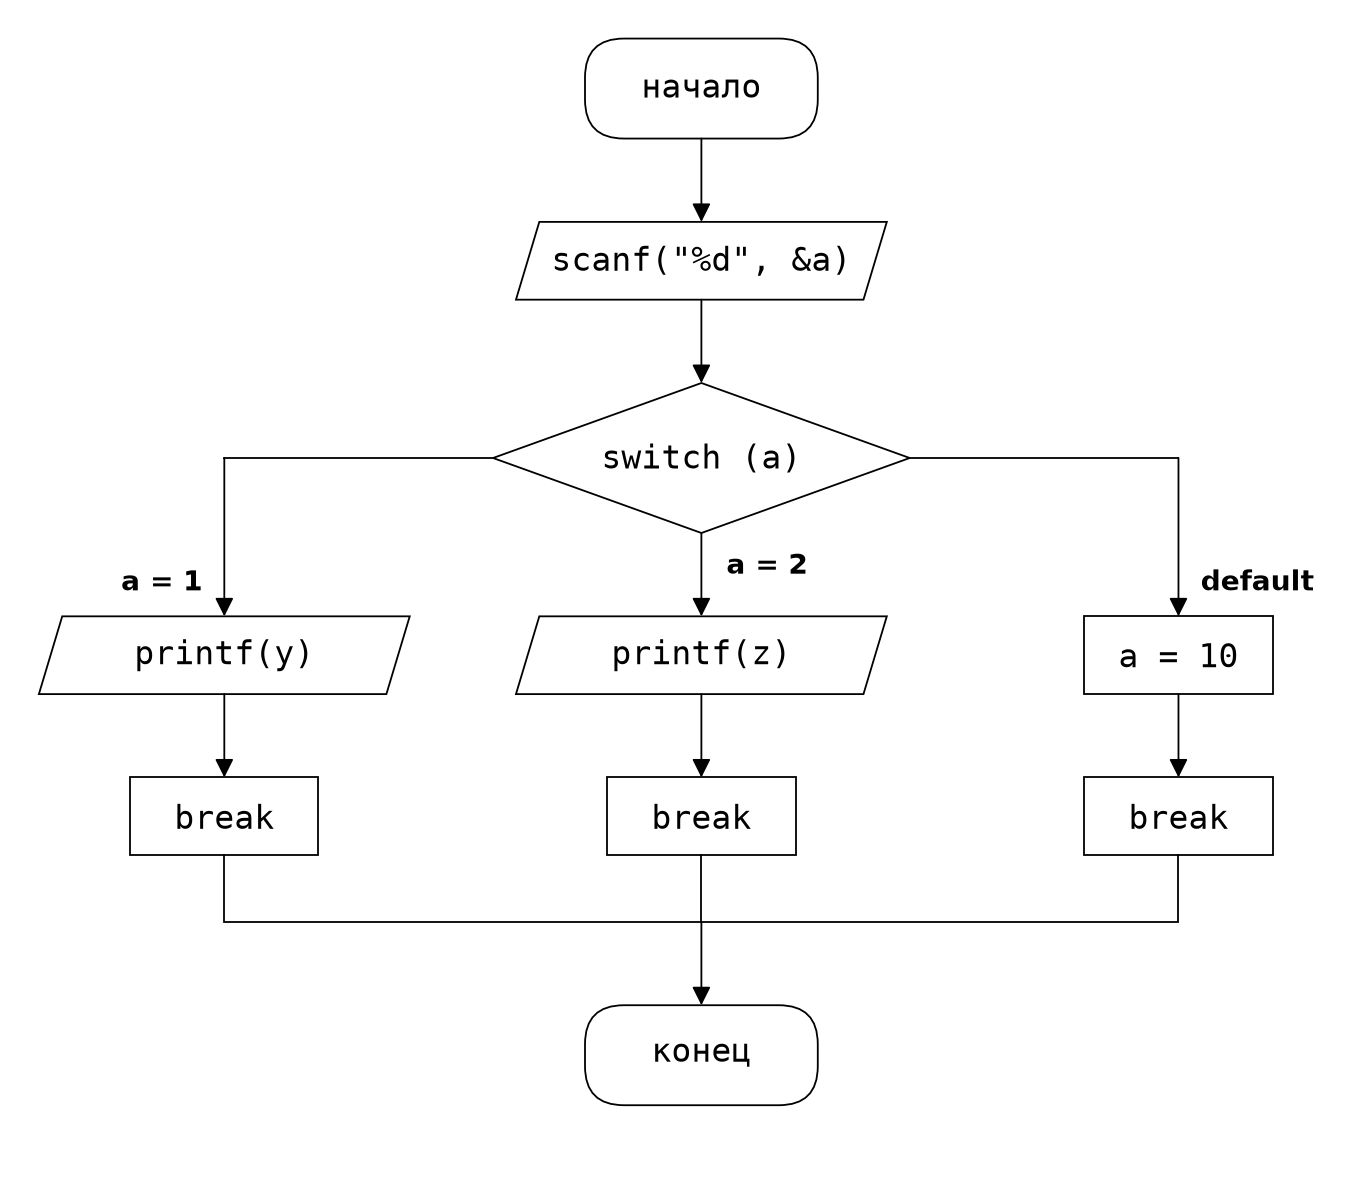
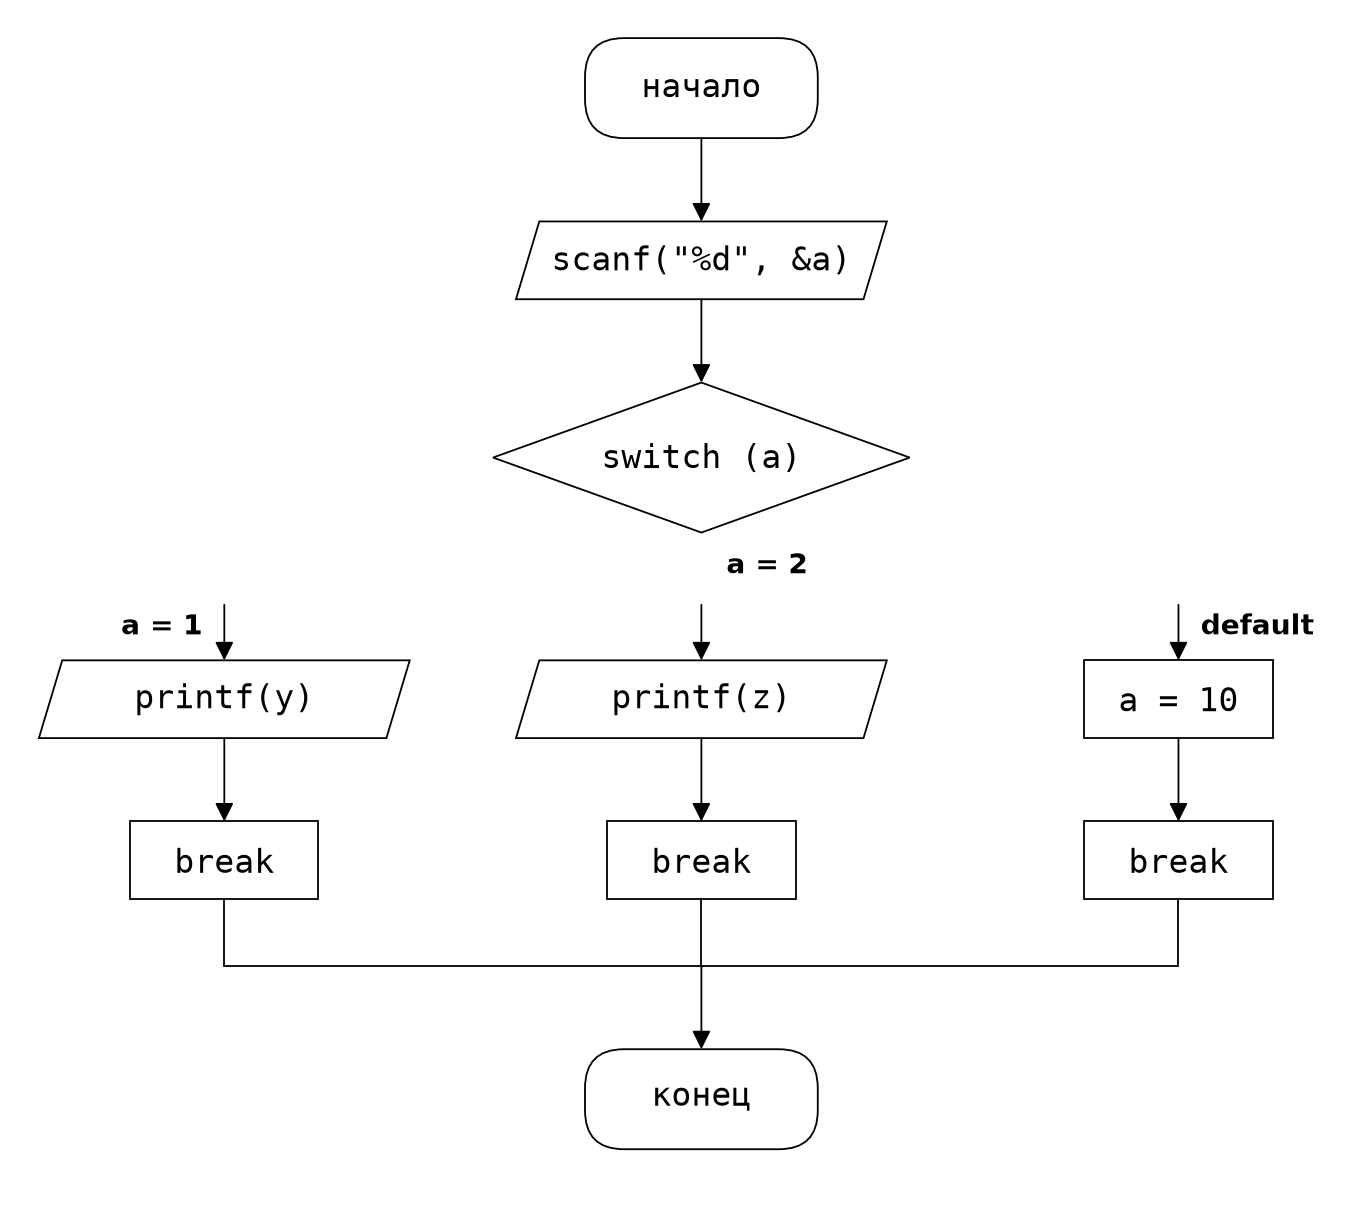
README: установка uv, главный сценарий — схема из кода C; превью нового свитча

diff --git a/examples/main.c b/examples/main.c
@@ -1,0 +1,21 @@
+#include <stdio.h>
+
+// Определение времени года по номеру месяца
+int main(void) {
+    int month;
+
+    printf("Введите номер месяца (1-12): ");
+    if (scanf("%d", &month) != 1 || month < 1 || month > 12) {
+        printf("Ошибка ввода\n");
+        return 1;
+    }
+
+    switch (month / 3) {
+        case 1: printf("Весна\n"); break;
+        case 2: printf("Лето\n"); break;
+        case 3: printf("Осень\n"); break;
+        default: printf("Зима\n");
+    }
+
+    return 0;
+}

diff --git a/README.md b/README.md
@@ -1,96 +1,99 @@
 # gostpadi
 
-**Блок-схемы по ГОСТ 19.701-90 из простого текстового формата `.gvn` — или сразу из кода на C.**
+**Блок-схемы по ГОСТ 19.701-90 прямо из кода на C** — или из своего
+текстового формата `.gvn`, если хочется управлять каждой строкой.
 
-Вы описываете только текст блоков и порядок строк — раскладку библиотека делает
-сама: все линии строго под 90° и одной толщины, фигуры одного типа — одного
-размера, ничего не рисуется руками.
+Скармливаешь `main.c` — получаешь готовую схему: все линии строго под 90°
+и одной толщины, фигуры одного типа — одного размера, `switch` веером
+кейсов из нижнего угла ромба, `return` уводит ветку в «конец». Ничего
+рисовать руками не надо.
 
-![пример](docs/preview.png)
+![схема из кода C](docs/from-c.png)
 
-## Почему это удобно
+![switch](docs/preview.png)
 
-- **Порядок строк = порядок блоков.** Никаких координат, рёбер и точек с запятой.
-- **Ветки — отступом.** Сделал отступ в 4 пробела — написал ветку условия.
-- **Раскладка сама.** «да» — налево, «нет» — направо, switch — колонка на каждый
-  case, все слияния — в точках на основной линии, стрелки входят в фигуры.
-- **Схема из кода C.** Скармливаешь `main.c` — получаешь готовую блок-схему.
-- **Сам режет на листы.** Не влезло в А4 — части соединяются кружками «А», «Б»…
-- **Одна зависимость** — matplotlib.
+## Установка
 
-## Быстрый старт
+Ничего ставить не нужно, если есть [uv](https://docs.astral.sh/uv/) —
+утилита сама скачает скрипт и matplotlib:
 
 ```bash
-uv run --with matplotlib python gostpadi.py схема.gvn --show
+# установка uv (Linux / macOS)
+curl -LsSf https://astral.sh/uv/install.sh | sh
+
+# установка uv (Windows PowerShell)
+powershell -ExecutionPolicy ByPass -c "irm https://astral.sh/uv/install.ps1 | iex"
 ```
 
-или классически:
+Всё, можно пользоваться (пример — на C-файле из этого репозитория):
 
 ```bash
+uv run https://raw.githubusercontent.com/sehaxe/gostpadi/main/gostpadi.py \
+    examples/main.c --show
+```
+
+Классический вариант — клонировать репозиторий:
+
+```bash
+git clone https://github.com/sehaxe/gostpadi
+cd gostpadi
+uv run gostpadi.py examples/main.c --show
+# или без uv:
 pip install matplotlib
-python gostpadi.py схема.gvn        # -> схема.png
+python gostpadi.py examples/main.c --show
 ```
 
-`--show` печатает картинку прямо в терминал (kitty / WezTerm / Ghostty /
-iTerm2), если он умеет; в любом случае PNG сохраняется.
+## Главное: схема из кода C
 
-## Формат .gvn
+```bash
+gostpadi main.c                    # -> main.png (вписано в А4)
+gostpadi main.c --show             # + показать в терминале
+gostpadi main.c --labels=ru        # подписи «да/нет» (по умолчанию ru)
+gostpadi main.c --gvn              # сохранить ещё и текст схемы main.gvn
+```
 
-Первая строка `#gostpadi 1` — подпись формата. Комментарии: `#` и `//`.
-Ключевые слова можно писать по-русски и по-английски:
+Понимает: `printf`/`scanf` (сами параллелограммы), присваивания, `if/else`
+(ветки плитками, `return` уводит ветку в «конец»), `switch/case/default`
+(ромб, из нижнего угла горизонтальная линия — на ней все кейсы,
+подписи `month = 1` … `default`). Объявления переменных выбрасываются,
+длинные `printf` сокращаются до `printf("Начало фразы...")`.
 
-| что | русский | английский |
-|---|---|---|
-| ввод | `ввод текст` | `input текст` |
-| вывод | `вывод текст` | `output текст` |
-| действие | `действие текст` или просто текст | `action текст` или просто текст |
-| условие | `если усл.` | `if усл.` или голый `switch (x)` |
-| ветка в конец | `да -> конец: ...` | `yes -> end: ...` |
-| otherwise | `иначе:` | `default:` / `else:` |
-| язык надписей | `@labels ru` | `@labels en` |
+Не понимает (и честно скажет): циклы `while/for/do`, `else if`, вложенные
+`if` внутри веток, `goto`.
 
-Пример:
+## Схема из текста .gvn (необязательно)
+
+Если хочется управлять каждой строкой — есть свой текстовый формат:
+строка = блок, порядок строк = порядок блоков сверху вниз, ветки — отступом
+в 4 пробела. «начало»/«конец» добавляются сами.
 
 ```text
 #gostpadi 1
-input scanf("%d", &x)
-y = x * 2
-if y > 10
+input scanf("%d", &x)          # параллелограмм (ввод)
+y = x * 2                      # прямоугольник (действие)
+if y > 10                      # ромб; ветки ниже с отступом 4 пробела
     yes: printf("big")
     no: printf("small")
-output printf("done")
+output printf("done")          # printf/scanf узнаются и без слова
 ```
 
-`printf`, `scanf`, `read`, `echo` и т.п. узнаются сами и становятся
-параллелограммами ввода-вывода; у одиночного `if` второй выход (`no`)
-рисуется автоматически; инструкции ветки через `;` становятся отдельными
-плитками колонки.
-
-## Схема из кода C
-
-```bash
-gostpadi main.c --gvn --show    # main.png + main.gvn (можно сократить и перерендерить)
-```
-
-Понимает: `printf`/`scanf` (параллелограммы), присваивания, `if/else`,
-`switch/case/default` (подписи становятся `status = 1` … `default`), `return`
-(ветка уходит в «конец»). Объявления переменных выбрасываются. Циклы, `else if`
-и вложенные `if` в ветках пока не поддерживаются — утилита честно скажет, что
-нашла.
+Ключевые слова можно писать и по-русски: `ввод`, `вывод`, `действие`,
+`если`, `да -> конец:`. Длинные строки переносятся внутри фигур сами,
+комментарии — `#` и `//`.
 
 ## Все опции CLI
 
 | опция | что делает |
 |---|---|
-| `-o ФАЙЛ` | имя PNG (по умолчанию `<имя схемы>.png`) |
+| `-o ФАЙЛ` | имя PNG (по умолчанию `<имя входа>.png`) |
 | `--auto` | канвас по размеру схемы, но не больше А4; без разбиения на листы |
 | `--scale=N` | принудительный масштаб |
 | `--font=N` | базовый кегль (по умолчанию 12) |
-| `--lw=N` | толщина **всех** линий и рамок (по умолчанию 1.1) |
+| `--lw=N` | толщина **всех** линий и рамок (по умолчанию 1.4) |
 | `--dpi=N` | плотность пикселей (по умолчанию 200) |
-| `--show` | нарисовать результат прямо в терминале |
-| `--labels=ru\|en` | язык подписей схем, сгенерированных из кода C |
-| `--gvn` | при входе `.c` сохранить ещё и сгенерированный `.gvn` |
+| `--show` | нарисовать результат прямо в терминале (kitty/WezTerm/Ghostty/iTerm2) |
+| `--labels=ru\|en` | язык подписей схем из кода C (по умолчанию `ru`: да/нет) |
+| `--gvn` | при входе `.c` сохранить ещё и текст схемы `.gvn` |
 | `--template` | напечатать заготовку `.gvn` |
 
 ## Из Python
@@ -98,36 +101,39 @@ gostpadi main.c --gvn --show    # main.png + main.gvn (можно сократи
 ```python
 import gostpadi
 
-gostpadi.render(open("схема.gvn").read(), "результат.png")
-gostpadi.render(open("main.c").read(), "из_кода.png")          # .c тоже можно
+gostpadi.render(open("main.c").read(), "схема.png")            # из кода C
+gostpadi.render(open("схема.gvn").read(), "результат.png")     # из .gvn
 gostpadi.render(text, "x2.png", page="auto", scale=2.0)        # опции
-
-# или собрать схему из кода
-s = gostpadi.Scheme()
-s.input('scanf("%f %f", &a, &b)')
-s.branch("scanf != 2 || a <= 0 || b <= 0",
-         yes='printf("Ошибка..."); return 1 -> end')
-s.output('printf("Гипотенуза: %.2f")')
-s.render("task.png")
 ```
+
+Если схема не влезает в А4, `render` сам делит её на листы
+(`результат.png`, `результат-2.png`, …), соединяя кружками «А», «Б»…
 
 ## Соответствие ГОСТ 19.701-90
 
 - **Символы** — по стандарту: терминатор, процесс, данные (параллелограмм),
-  решение (ромб), соединитель (кружок). Ромб с несколькими выходами из боковых
-  вершин (switch) стандартом прямо разрешён.
-- **Линии** — ортогональные, одной толщины, сливаются в точках, входят в
-  символы со стрелками; текст внутри символов; однотипные символы — одного
-  размера; выходы решения — из боковых вершин.
+  решение (ромб), соединитель (кружок). Ромб с несколькими выходами
+  (switch) стандартом прямо разрешён.
+- **Линии** — ортогональные, одной толщины, сливаются в точках, входят
+  в символы со стрелками; текст внутри символов; однотипные символы —
+  одного размера; выходы решения — из боковых вершин.
 - **Осознанные упрощения** (обычны для учебных схем): все `return` ведут в
   общий «конец»; `break` нарисован как процесс; стрелки стоят на всех входах.
 
 ## Примеры
 
-В `examples/`: `hello.gvn` — минимум на английском, `board1_linear.gvn`,
-`board2_if.gvn`, `board3_switch.gvn` — шаблоны «как на доске»,
-`task1..4.gvn` — схемы реальных лабораторных задач.
+В `examples/`: `main.c` — программа, из которой строится схема;
+`hello.gvn` — минимум на английском; `board1_linear.gvn`, `board2_if.gvn`,
+`board3_switch.gvn` — шаблоны «как на доске»; `task1..4.gvn` — схемы
+реальных лабораторных задач (см. картинки выше).
 
 ## Лицензия
 
 MIT — см. [LICENSE](LICENSE).
+'''
+print("readme ok")
+PYEOF
+git add -A && git commit -q -m "README: установка uv, главный сценарий — схема из кода C; новые превью" && git push -q origin main && echo PUSHED && git log --oneline | head -2
+__zcode_status=$?
+if [ "$__zcode_status" -eq 0 ]; then pwd -P > '/tmp/zcode-4d730357-779d-4a9f-9033-bb8272fc50bc-cwd'; fi
+exit "$__zcode_status"
